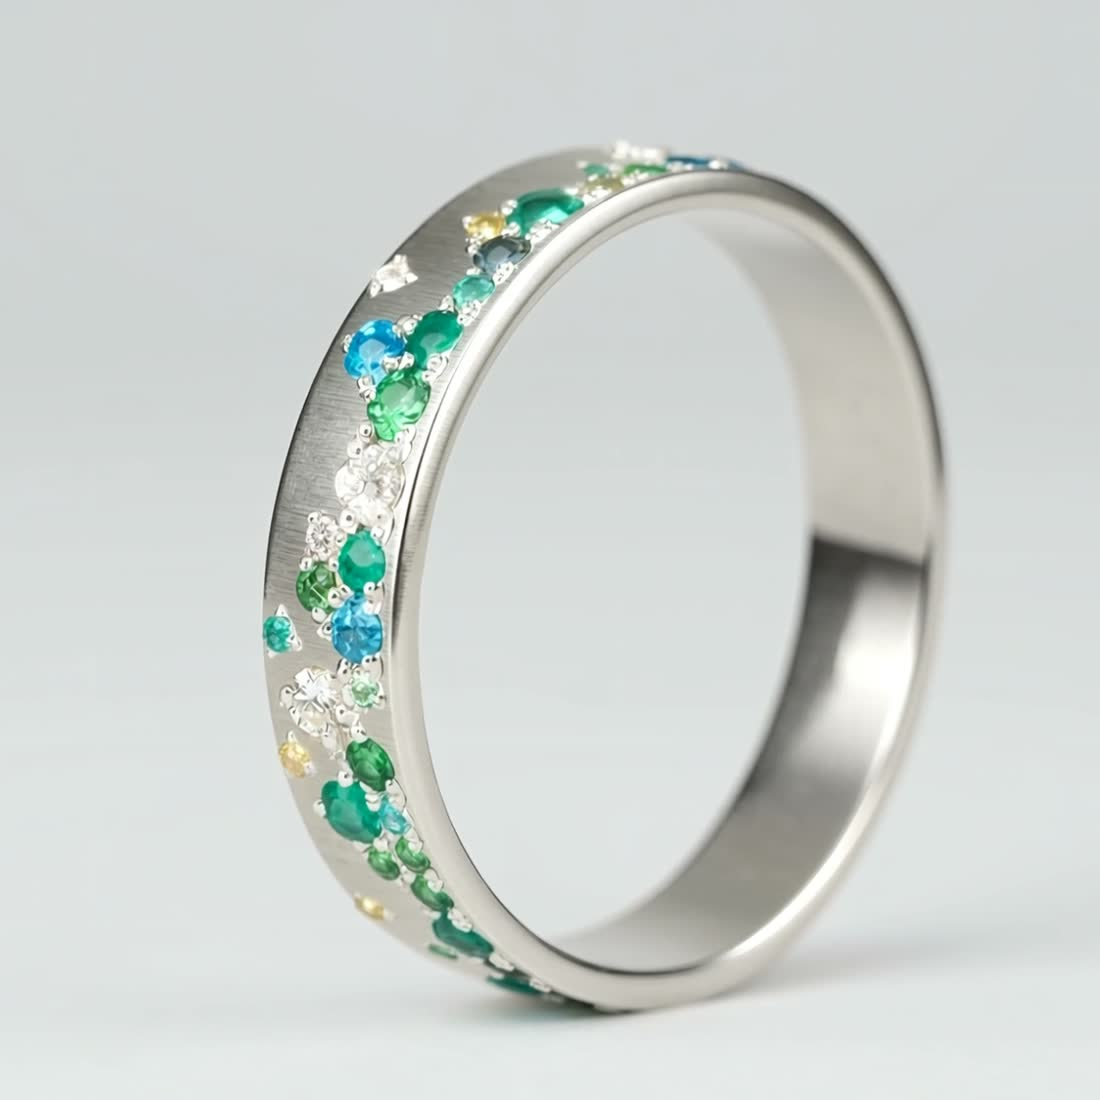
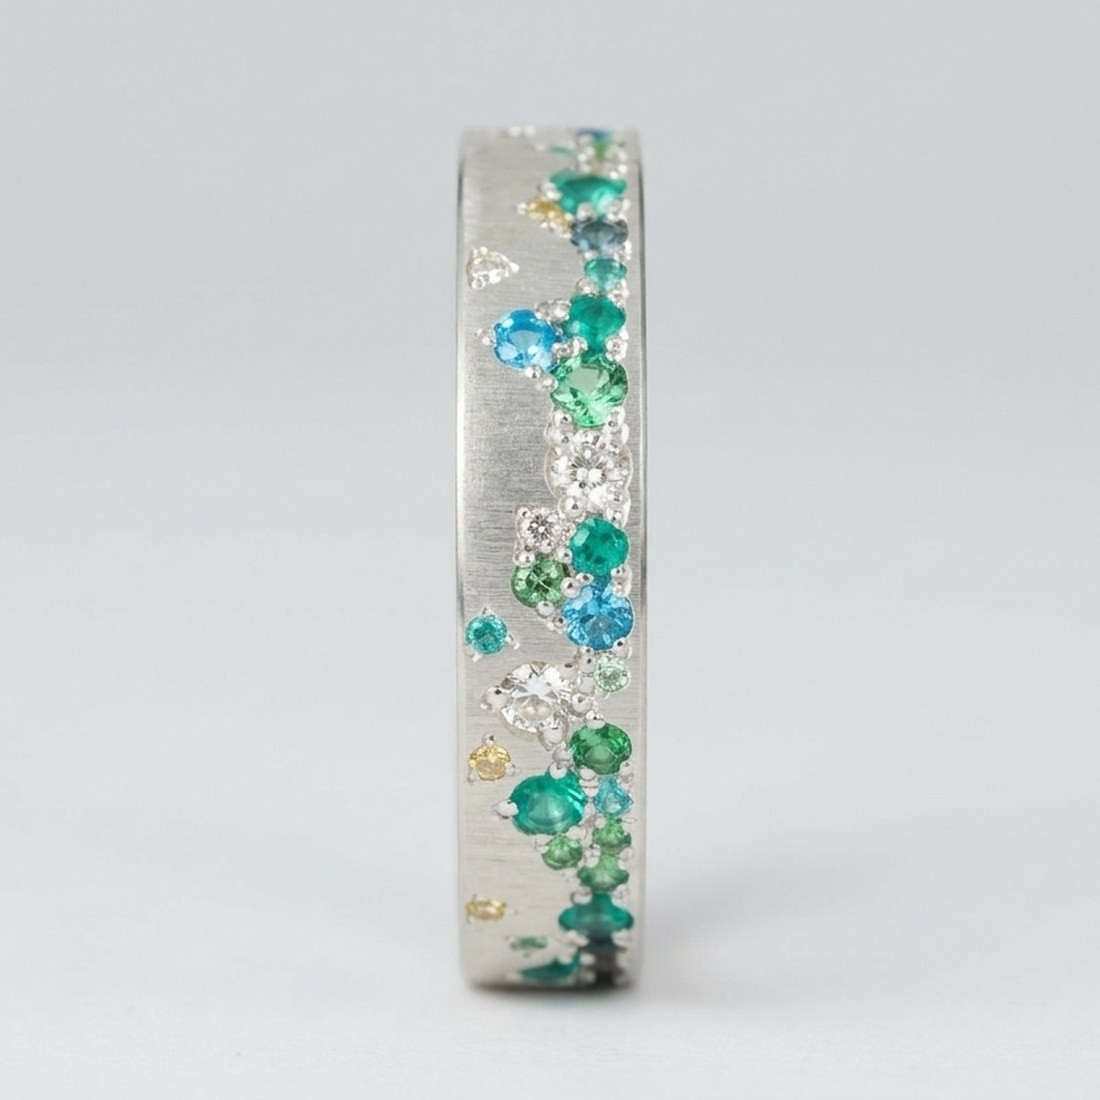
Yarrow Vert : vraies photos et survols

Changed region(s): [[0.2164, 0.0927, 0.8655, 0.9582]]

diff --git a/app/yarrow/route.ts b/app/yarrow/route.ts
@@ -189,7 +189,7 @@ h1{font-family:var(--titre);font-weight:300;font-size:clamp(40px,7vw,88px);line-
 
 <script>
 (function(){
-  var P=[{"h":"yarrow","t":"Yarrow","h2":"/yarrow/yarrow-b2.jpg","v":"/yarrow/tuile-arcenciel.mp4","p":"2350.00","m":"La première. Rubis, saphirs oranges, améthystes — tout l'automne dans un anneau.","i":"https://cdn.shopify.com/s/files/1/0798/2303/products/yarrow52.web.jpg","g":["/yarrow/yarrow-a.jpg","/yarrow/yarrow-b.jpg","https://cdn.shopify.com/s/files/1/0798/2303/products/yarrow52.web.jpg","https://cdn.shopify.com/s/files/1/0798/2303/products/yarrow.web.jpg","https://cdn.shopify.com/s/files/1/0798/2303/products/yarrow2.web.jpg","https://cdn.shopify.com/s/files/1/0798/2303/products/yarrow6.web.jpg","https://cdn.shopify.com/s/files/1/0798/2303/products/yarrow7.web.jpg","https://cdn.shopify.com/s/files/1/0798/2303/products/yarrow5.web.jpg","https://cdn.shopify.com/s/files/1/0798/2303/products/yarrow4.web.jpg","https://cdn.shopify.com/s/files/1/0798/2303/products/yarrow3-web.jpg"]},{"h":"yarrow-glace","t":"Yarrow Glacé","h1":"/yarrow/glace-a2.jpg","h2":"/yarrow/glace-b2.jpg","v":"/yarrow/tuile-glace.mp4","p":"2350.00","m":"Le bleu sous la glace. Saphirs, topazes et diamants.","i":"https://cdn.shopify.com/s/files/1/0798/2303/products/glace4.web.jpg","g":["/yarrow/glace-a.jpg","/yarrow/glace-b.jpg","https://cdn.shopify.com/s/files/1/0798/2303/products/glace.web.jpg","https://cdn.shopify.com/s/files/1/0798/2303/products/glace4.web.jpg","https://cdn.shopify.com/s/files/1/0798/2303/products/yarrowglace.web.jpg","https://cdn.shopify.com/s/files/1/0798/2303/products/glace3.web.jpg"]},{"h":"yarrow-purple","t":"Yarrow Purple","h1":"/yarrow/purple-a2.jpg","h2":"/yarrow/purple-b2.jpg","v":"/yarrow/tuile-purple.mp4","p":"2350.00","m":"Du mauve le plus pâle au violet profond.","i":"https://cdn.shopify.com/s/files/1/0798/2303/products/MG_1904_modif_web.jpg","g":["/yarrow/purple-a.jpg","/yarrow/purple-b.jpg","https://cdn.shopify.com/s/files/1/0798/2303/products/MG_1930_modif_web.jpg","https://cdn.shopify.com/s/files/1/0798/2303/products/MG_1904_modif_web.jpg","https://cdn.shopify.com/s/files/1/0798/2303/products/MG_1923_modi_webf.jpg","https://cdn.shopify.com/s/files/1/0798/2303/products/MG_1927_modif_web.jpg","https://cdn.shopify.com/s/files/1/0798/2303/products/MG_1910_modif_web.jpg","https://cdn.shopify.com/s/files/1/0798/2303/products/MG_1919_modif_web.jpg","https://cdn.shopify.com/s/files/1/0798/2303/products/MG_2146_modif_web.jpg","https://cdn.shopify.com/s/files/1/0798/2303/products/MG_2177_modif_web_1.jpg"]},{"h":"yarrow-black-and-white","t":"Yarrow Black and White","h1":"/yarrow/bw-a2.jpg","h2":"/yarrow/bw-b2.jpg","v":"/yarrow/tuile-blackwhite.mp4","p":"2350.00","m":"Diamants noirs et diamants blancs, sans transition.","i":"https://cdn.shopify.com/s/files/1/0798/2303/products/MG_1238_modif_carre-web.jpg","g":["/yarrow/bw-a.jpg","/yarrow/bw-b.jpg","https://cdn.shopify.com/s/files/1/0798/2303/products/MG_9685_modif_carre-web.jpg","https://cdn.shopify.com/s/files/1/0798/2303/products/MG_1245_modif_carre_web.jpg","https://cdn.shopify.com/s/files/1/0798/2303/products/MG_9682_modif__carre_Web.jpg","https://cdn.shopify.com/s/files/1/0798/2303/products/MG_1238_modif_carre-web.jpg","https://cdn.shopify.com/s/files/1/0798/2303/products/MG_9665_modif_carre_Web.jpg","https://cdn.shopify.com/s/files/1/0798/2303/products/MG_1235._modif_carre-web.jpg","https://cdn.shopify.com/s/files/1/0798/2303/products/MG_1244_modif_carre_web.jpg","https://cdn.shopify.com/s/files/1/0798/2303/products/MG_1240_modif_carre_web.jpg","https://cdn.shopify.com/s/files/1/0798/2303/products/MG_9641_modif_carre_web.jpg","https://cdn.shopify.com/s/files/1/0798/2303/products/MG_9672_modif_carre_web_354bc01c-8be2-49da-ab47-9a805595fdad.jpg"]},{"h":"yarrow-white","t":"Yarrow White","h1":"/yarrow/white-a2.jpg","h2":"/yarrow/white-b2.jpg","v":"/yarrow/tuile-white.mp4","p":"2350.00","m":"Rien que du blanc. La plus silencieuse.","i":"https://cdn.shopify.com/s/files/1/0798/2303/files/yarrowwhite2_914e030f-df35-4f1f-84ef-82bbf532e181.jpg","g":["/yarrow/white-a.jpg","/yarrow/white-b.jpg","https://cdn.shopify.com/s/files/1/0798/2303/files/yarrowwhite2_914e030f-df35-4f1f-84ef-82bbf532e181.jpg","https://cdn.shopify.com/s/files/1/0798/2303/files/yarrowwhite.jpg"]},{"h":"yarrow-love","t":"Yarrow love","h1":"/yarrow/love-a2.jpg","h2":"/yarrow/love-b2.jpg","v":"/yarrow/tuile-love.mp4","p":"2350.00","m":"Les roses, les fuchsias, les rouges.","i":"https://cdn.shopify.com/s/files/1/0798/2303/files/MG_6111_modif_web.jpg","g":["/yarrow/love-a.jpg","/yarrow/love-b.jpg","https://cdn.shopify.com/s/files/1/0798/2303/files/MG_6100_modif_web.jpg","https://cdn.shopify.com/s/files/1/0798/2303/files/MG_6130_modif_web.jpg","https://cdn.shopify.com/s/files/1/0798/2303/files/MG_6080_modif_web.jpg","https://cdn.shopify.com/s/files/1/0798/2303/files/MG_6095_modif_web.jpg","https://cdn.shopify.com/s/files/1/0798/2303/files/MG_6135_modif_web.jpg","https://cdn.shopify.com/s/files/1/0798/2303/files/MG_6111_modif_web.jpg"]},{"h":"yarrow-sucre-dorge","t":"Yarrow Sucre d'orge","h1":"/yarrow/sucre-a2.jpg","h2":"/yarrow/sucre-b2.jpg","v":"/yarrow/tuile-sucredorge.mp4","p":"2350.00","m":"Rubis et diamants, comme un bâton de sucre d'orge.","i":"https://cdn.shopify.com/s/files/1/0798/2303/files/MG_4347-modif.jpg","g":["/yarrow/sucre-a.jpg","/yarrow/sucre-b.jpg","https://cdn.shopify.com/s/files/1/0798/2303/files/MG_4332-modif.jpg","https://cdn.shopify.com/s/files/1/0798/2303/files/MG_4343-modif.jpg","https://cdn.shopify.com/s/files/1/0798/2303/files/MG_4353-modif.jpg","https://cdn.shopify.com/s/files/1/0798/2303/files/MG_4349-modif.jpg","https://cdn.shopify.com/s/files/1/0798/2303/files/MG_4325-modif.jpg","https://cdn.shopify.com/s/files/1/0798/2303/files/MG_4347-modif.jpg"]},{"h":"","t":"Yarrow Vert","v":"/yarrow/tuile-vert.mp4","p":"","m":"Emeraudes, turquoises et quelques eclats jaunes.","i":"/yarrow/vert.jpg","g":["/yarrow/vert.jpg","/yarrow/vert-2.jpg"]},{"h":"","t":"Yarrow Rose Gold","v":"/yarrow/tuile-rosegold.mp4","p":"","m":"Or rose brosse, diamants blancs, roses et gris opaques.","i":"/yarrow/rosegold.jpg","g":["/yarrow/rosegold.jpg","/yarrow/rosegold-2.jpg"]},{"h":"","t":"Yarrow Arc-en-ciel","v":"/yarrow/tuile-orangerose.mp4","p":"","m":"De l'ambre au fuchsia, toutes les couleurs qui descendent.","i":"/yarrow/arcenciel.jpg","g":["/yarrow/arcenciel.jpg","/yarrow/arcenciel-2.jpg"]}];
+  var P=[{"h":"yarrow","t":"Yarrow","h2":"/yarrow/yarrow-b2.jpg","v":"/yarrow/tuile-arcenciel.mp4","p":"2350.00","m":"La première. Rubis, saphirs oranges, améthystes — tout l'automne dans un anneau.","i":"https://cdn.shopify.com/s/files/1/0798/2303/products/yarrow52.web.jpg","g":["/yarrow/yarrow-a.jpg","/yarrow/yarrow-b.jpg","https://cdn.shopify.com/s/files/1/0798/2303/products/yarrow52.web.jpg","https://cdn.shopify.com/s/files/1/0798/2303/products/yarrow.web.jpg","https://cdn.shopify.com/s/files/1/0798/2303/products/yarrow2.web.jpg","https://cdn.shopify.com/s/files/1/0798/2303/products/yarrow6.web.jpg","https://cdn.shopify.com/s/files/1/0798/2303/products/yarrow7.web.jpg","https://cdn.shopify.com/s/files/1/0798/2303/products/yarrow5.web.jpg","https://cdn.shopify.com/s/files/1/0798/2303/products/yarrow4.web.jpg","https://cdn.shopify.com/s/files/1/0798/2303/products/yarrow3-web.jpg"]},{"h":"yarrow-glace","t":"Yarrow Glacé","h1":"/yarrow/glace-a2.jpg","h2":"/yarrow/glace-b2.jpg","v":"/yarrow/tuile-glace.mp4","p":"2350.00","m":"Le bleu sous la glace. Saphirs, topazes et diamants.","i":"https://cdn.shopify.com/s/files/1/0798/2303/products/glace4.web.jpg","g":["/yarrow/glace-a.jpg","/yarrow/glace-b.jpg","https://cdn.shopify.com/s/files/1/0798/2303/products/glace.web.jpg","https://cdn.shopify.com/s/files/1/0798/2303/products/glace4.web.jpg","https://cdn.shopify.com/s/files/1/0798/2303/products/yarrowglace.web.jpg","https://cdn.shopify.com/s/files/1/0798/2303/products/glace3.web.jpg"]},{"h":"yarrow-purple","t":"Yarrow Purple","h1":"/yarrow/purple-a2.jpg","h2":"/yarrow/purple-b2.jpg","v":"/yarrow/tuile-purple.mp4","p":"2350.00","m":"Du mauve le plus pâle au violet profond.","i":"https://cdn.shopify.com/s/files/1/0798/2303/products/MG_1904_modif_web.jpg","g":["/yarrow/purple-a.jpg","/yarrow/purple-b.jpg","https://cdn.shopify.com/s/files/1/0798/2303/products/MG_1930_modif_web.jpg","https://cdn.shopify.com/s/files/1/0798/2303/products/MG_1904_modif_web.jpg","https://cdn.shopify.com/s/files/1/0798/2303/products/MG_1923_modi_webf.jpg","https://cdn.shopify.com/s/files/1/0798/2303/products/MG_1927_modif_web.jpg","https://cdn.shopify.com/s/files/1/0798/2303/products/MG_1910_modif_web.jpg","https://cdn.shopify.com/s/files/1/0798/2303/products/MG_1919_modif_web.jpg","https://cdn.shopify.com/s/files/1/0798/2303/products/MG_2146_modif_web.jpg","https://cdn.shopify.com/s/files/1/0798/2303/products/MG_2177_modif_web_1.jpg"]},{"h":"yarrow-black-and-white","t":"Yarrow Black and White","h1":"/yarrow/bw-a2.jpg","h2":"/yarrow/bw-b2.jpg","v":"/yarrow/tuile-blackwhite.mp4","p":"2350.00","m":"Diamants noirs et diamants blancs, sans transition.","i":"https://cdn.shopify.com/s/files/1/0798/2303/products/MG_1238_modif_carre-web.jpg","g":["/yarrow/bw-a.jpg","/yarrow/bw-b.jpg","https://cdn.shopify.com/s/files/1/0798/2303/products/MG_9685_modif_carre-web.jpg","https://cdn.shopify.com/s/files/1/0798/2303/products/MG_1245_modif_carre_web.jpg","https://cdn.shopify.com/s/files/1/0798/2303/products/MG_9682_modif__carre_Web.jpg","https://cdn.shopify.com/s/files/1/0798/2303/products/MG_1238_modif_carre-web.jpg","https://cdn.shopify.com/s/files/1/0798/2303/products/MG_9665_modif_carre_Web.jpg","https://cdn.shopify.com/s/files/1/0798/2303/products/MG_1235._modif_carre-web.jpg","https://cdn.shopify.com/s/files/1/0798/2303/products/MG_1244_modif_carre_web.jpg","https://cdn.shopify.com/s/files/1/0798/2303/products/MG_1240_modif_carre_web.jpg","https://cdn.shopify.com/s/files/1/0798/2303/products/MG_9641_modif_carre_web.jpg","https://cdn.shopify.com/s/files/1/0798/2303/products/MG_9672_modif_carre_web_354bc01c-8be2-49da-ab47-9a805595fdad.jpg"]},{"h":"yarrow-white","t":"Yarrow White","h1":"/yarrow/white-a2.jpg","h2":"/yarrow/white-b2.jpg","v":"/yarrow/tuile-white.mp4","p":"2350.00","m":"Rien que du blanc. La plus silencieuse.","i":"https://cdn.shopify.com/s/files/1/0798/2303/files/yarrowwhite2_914e030f-df35-4f1f-84ef-82bbf532e181.jpg","g":["/yarrow/white-a.jpg","/yarrow/white-b.jpg","https://cdn.shopify.com/s/files/1/0798/2303/files/yarrowwhite2_914e030f-df35-4f1f-84ef-82bbf532e181.jpg","https://cdn.shopify.com/s/files/1/0798/2303/files/yarrowwhite.jpg"]},{"h":"yarrow-love","t":"Yarrow love","h1":"/yarrow/love-a2.jpg","h2":"/yarrow/love-b2.jpg","v":"/yarrow/tuile-love.mp4","p":"2350.00","m":"Les roses, les fuchsias, les rouges.","i":"https://cdn.shopify.com/s/files/1/0798/2303/files/MG_6111_modif_web.jpg","g":["/yarrow/love-a.jpg","/yarrow/love-b.jpg","https://cdn.shopify.com/s/files/1/0798/2303/files/MG_6100_modif_web.jpg","https://cdn.shopify.com/s/files/1/0798/2303/files/MG_6130_modif_web.jpg","https://cdn.shopify.com/s/files/1/0798/2303/files/MG_6080_modif_web.jpg","https://cdn.shopify.com/s/files/1/0798/2303/files/MG_6095_modif_web.jpg","https://cdn.shopify.com/s/files/1/0798/2303/files/MG_6135_modif_web.jpg","https://cdn.shopify.com/s/files/1/0798/2303/files/MG_6111_modif_web.jpg"]},{"h":"yarrow-sucre-dorge","t":"Yarrow Sucre d'orge","h1":"/yarrow/sucre-a2.jpg","h2":"/yarrow/sucre-b2.jpg","v":"/yarrow/tuile-sucredorge.mp4","p":"2350.00","m":"Rubis et diamants, comme un bâton de sucre d'orge.","i":"https://cdn.shopify.com/s/files/1/0798/2303/files/MG_4347-modif.jpg","g":["/yarrow/sucre-a.jpg","/yarrow/sucre-b.jpg","https://cdn.shopify.com/s/files/1/0798/2303/files/MG_4332-modif.jpg","https://cdn.shopify.com/s/files/1/0798/2303/files/MG_4343-modif.jpg","https://cdn.shopify.com/s/files/1/0798/2303/files/MG_4353-modif.jpg","https://cdn.shopify.com/s/files/1/0798/2303/files/MG_4349-modif.jpg","https://cdn.shopify.com/s/files/1/0798/2303/files/MG_4325-modif.jpg","https://cdn.shopify.com/s/files/1/0798/2303/files/MG_4347-modif.jpg"]},{"h":"","t":"Yarrow Vert","h1":"/yarrow/vert-a2.jpg","h2":"/yarrow/vert-b2.jpg","v":"/yarrow/tuile-vert.mp4","p":"","m":"Emeraudes, turquoises et quelques eclats jaunes.","i":"/yarrow/vert.jpg","g":["/yarrow/vert.jpg","/yarrow/vert-2.jpg"]},{"h":"","t":"Yarrow Rose Gold","v":"/yarrow/tuile-rosegold.mp4","p":"","m":"Or rose brosse, diamants blancs, roses et gris opaques.","i":"/yarrow/rosegold.jpg","g":["/yarrow/rosegold.jpg","/yarrow/rosegold-2.jpg"]},{"h":"","t":"Yarrow Arc-en-ciel","v":"/yarrow/tuile-orangerose.mp4","p":"","m":"De l'ambre au fuchsia, toutes les couleurs qui descendent.","i":"/yarrow/arcenciel.jpg","g":["/yarrow/arcenciel.jpg","/yarrow/arcenciel-2.jpg"]}];
   var B='https://www.yourmood.net/products/';
   function u(x,w){ if(x.charAt(0)==='/') return x; return x+(x.indexOf('?')>-1?'&':'?')+'width='+w; }
   (function(){var v=document.getElementById('herovid');v.poster=u(P[0].i,1600);v.src='/yarrow/hero.mp4';v.play().catch(function(){});})();
